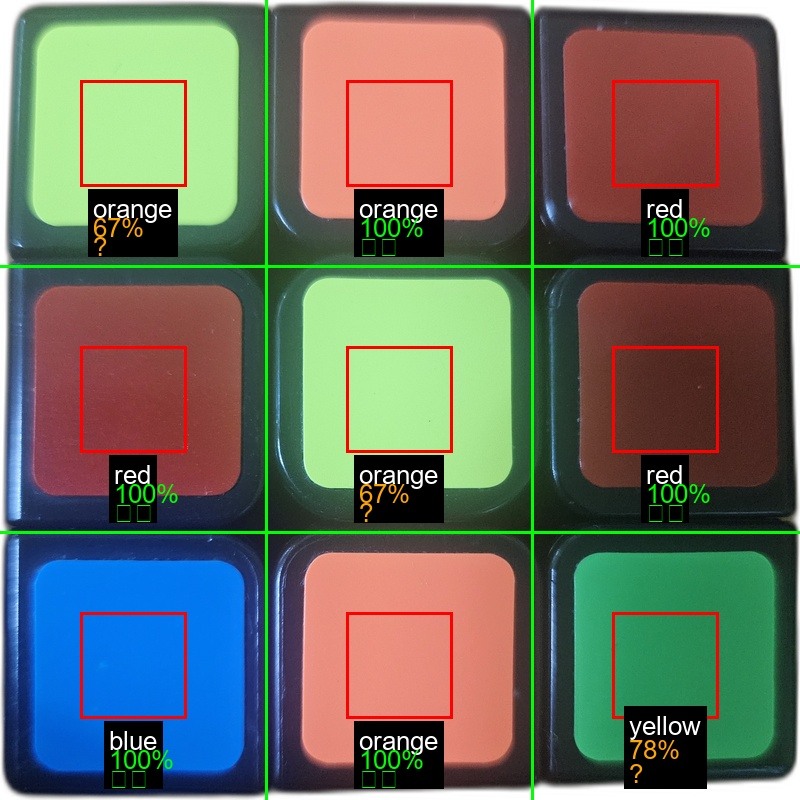
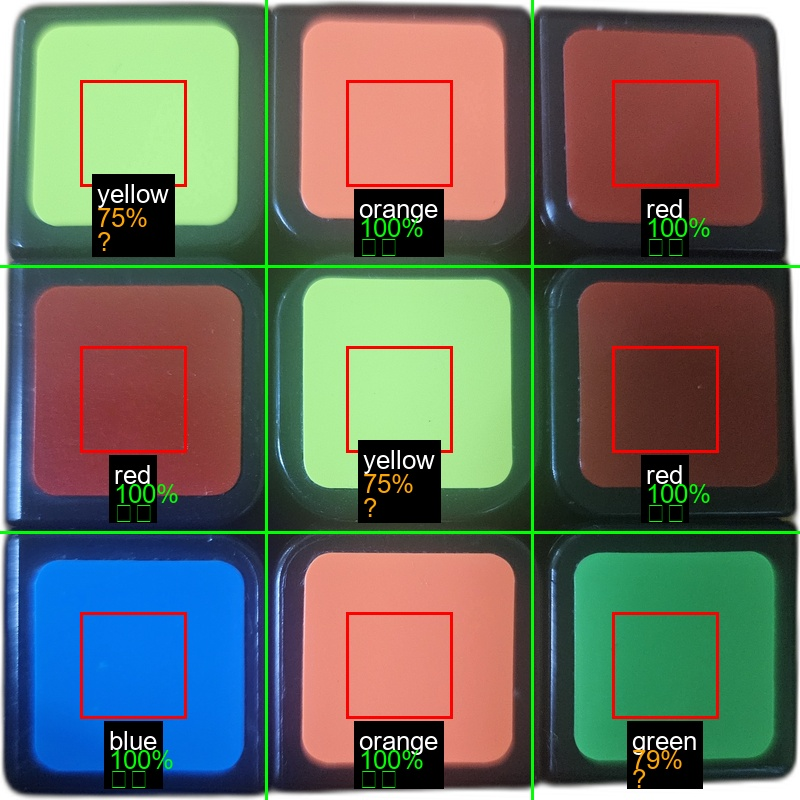
정의는 승리한다. 그건 바로 나!

Changed region(s): [[0.4375, 0.5312, 0.5625, 0.6562], [0.7812, 0.875, 0.9062, 1.0], [0.0938, 0.2188, 0.25, 0.3125]]

diff --git a/remove_bg.py b/remove_bg.py
@@ -9,18 +9,18 @@ from sklearn.cluster import KMeans
 # ============= 기준 색상 정의 =============
 REFERENCE_COLORS_RGB = {
     'white':  np.array([220, 230, 240]),
-    'yellow': np.array([230, 225, 120]),
-    'orange': np.array([240, 130, 105]),
-    'red':    np.array([170, 55, 35]),
-    'green':  np.array([60, 190, 110]),
+    'yellow': np.array([180, 220, 130]),  # 기존 (230,225,120)에서 실제 클러스터(173,226,125)에 가깝게
+    'orange': np.array([200, 100, 80]),   # 더 어두운 주황도 포함 (밝은것~어두운것 중간)
+    'red':    np.array([145, 50, 45]),    # 매우 어두운 빨강에 맞춤
+    'green':  np.array([55, 180, 110]),   # 기존 (60,190,110)에서 약간 조정
     'blue':   np.array([20, 80, 150])
 }
 
 REFERENCE_COLORS_HSV = {
     'white':  np.array([100, 50, 230]),
     'yellow': np.array([73, 180, 180]),   # H 낮춤 (80→73), V 낮춤 (230→180)
-    'orange': np.array([15, 130, 230]),   # H 높임 (7→15), S 낮춤 (165→130)
-    'red':    np.array([2, 170, 148]),    # S 낮춤 (220→170), V 낮춤 (155→148)
+    'orange': np.array([10, 150, 200]),   # H 낮춤 (15→10), S 높임, V 낮춤 (어두운 주황)
+    'red':    np.array([2, 180, 140]),    # S 높임 (170→180), V 낮춤 (148→140)
     'green':  np.array([60, 180, 200]),   # H 낮춤 (65→60)
     'blue':   np.array([106, 215, 145])
 }
@@ -72,7 +72,7 @@ def match_clusters_to_colors(cluster_centers, reference_colors, distance_func):
 def apply_hue_based_rules(cluster_to_color, cluster_centers_hsv):
     """
     Hue + 채도 + 명도 기반 후처리 규칙
-    - orange vs red: 명도(V) + 채도(S)로 구분
+    - orange vs red: Hue 범위 더 넓게 (어두운 주황 포함)
     - yellow vs green: Hue 정밀 조정
     """
     for cluster_id in range(len(cluster_centers_hsv)):
@@ -85,22 +85,21 @@ def apply_hue_based_rules(cluster_to_color, cluster_centers_hsv):
         
         # 2. Hue + V + S로 색상 판별
         
-        # 빨강/주황 구분 (H=0-25)
-        if h < 25:
-            # 빨강 조건 (더 엄격하게)
-            if h <= 6:  # H가 매우 낮으면
-                if v < 170:  # 어두우면 빨강
-                    cluster_to_color[cluster_id] = 'red'
-                elif s > 150:  # 채도 높으면 빨강 가능성
-                    cluster_to_color[cluster_id] = 'red'
-                else:  # 밝고 채도 낮으면 주황
-                    cluster_to_color[cluster_id] = 'orange'
-            else:  # H > 6이면 주황
+        # 빨강/주황 구분 (H=0-30으로 확대)
+        if h < 30:
+            # 주황 범위 확대: H가 5 이상이면 주황으로 우선 고려
+            if h >= 5:
                 cluster_to_color[cluster_id] = 'orange'
+            # H가 매우 낮으면 (0-5) 명도/채도로 판단
+            else:
+                if v < 160 and s > 160:  # 어둡고 채도 높으면 빨강
+                    cluster_to_color[cluster_id] = 'red'
+                else:  # 나머지는 주황
+                    cluster_to_color[cluster_id] = 'orange'
         
         # 초록/노랑 구분 (H=50-100)
         elif 50 <= h < 100:
-            # 노랑: H=68-82 (약간 더 넓게)
+            # 노랑: H=68-82
             if 68 <= h <= 82 and s > 140:
                 cluster_to_color[cluster_id] = 'yellow'
             # 초록: 나머지
@@ -115,8 +114,8 @@ def apply_hue_based_rules(cluster_to_color, cluster_centers_hsv):
         elif h >= 170:
             cluster_to_color[cluster_id] = 'red'
         
-        # 기타 (H=25-50): 주황/노랑 경계
-        elif 25 <= h < 50:
+        # 기타 (H=30-50): 주황/노랑 경계
+        elif 30 <= h < 50:
             if v > 200 and s > 140:  # 밝고 채도 높으면 노랑
                 cluster_to_color[cluster_id] = 'yellow'
             else:  # 그 외 주황
@@ -124,27 +123,60 @@ def apply_hue_based_rules(cluster_to_color, cluster_centers_hsv):
     
     return cluster_to_color
 
-def ensemble_vote(rgb_color, hsv_color, rgb_dist, hsv_dist):
+def ensemble_vote(rgb_color, hsv_color, rgb_dist, hsv_dist, hsv_raw=None):
     """
     2중 투표: RGB와 HSV 결과를 종합
+    RGB를 훨씬 더 신뢰 (조명 변화에 강건)
+    
+    Args:
+        hsv_raw: 개별 칸의 실제 HSV 값 [H, S, V] (재검증용)
     
     Returns:
         (final_color, confidence, reason)
     """
+    # 0. 개별 HSV 재검증 (클러스터링 오류 보정)
+    if hsv_raw is not None:
+        h, s, v = hsv_raw
+        
+        # yellow 보정: H=38-60이고 채도 충분하면 무조건 yellow
+        if 38 <= h <= 60 and s > 120 and v > 150:
+            # RGB도 yellow면 확신
+            if rgb_color == 'yellow':
+                return 'yellow', 1.0, 'both_agree'
+            # RGB가 green이어도 HSV 재검증으로 yellow 확정
+            else:
+                return 'yellow', 0.95, 'hsv_recheck'
+        
+        # orange 보정: H=5-10°이고 밝으면 (V>160) 무조건 orange
+        if 5 <= h <= 10 and v > 160:
+            # RGB도 orange면 확신
+            if rgb_color == 'orange':
+                return 'orange', 1.0, 'both_agree'
+            # RGB가 red여도 HSV 재검증으로 orange 확정
+            else:
+                return 'orange', 0.95, 'hsv_recheck'
+        
+        # red 확정: H<5이고 어두우면 (V<160) 무조건 red
+        if h < 5 and v < 160 and s > 140:
+            if rgb_color == 'red':
+                return 'red', 1.0, 'both_agree'
+            else:
+                return 'red', 0.95, 'hsv_recheck'
+    
     # 1. 두 결과 일치 → 확신도 매우 높음
     if rgb_color == hsv_color:
         return rgb_color, 1.0, 'both_agree'
     
-    # 2. 불일치 → 거리 기반 신뢰도 계산
+    # 2. 불일치 → RGB를 훨씬 더 신뢰
     rgb_confidence = 1.0 / (1.0 + rgb_dist / 50.0)
     hsv_confidence = 1.0 / (1.0 + hsv_dist / 100.0)
     
-    # 3. RGB 가중치를 약간 더 줌 (조명 변화에 더 안정적)
-    rgb_weighted = rgb_confidence * 1.2
+    # 3. RGB 가중치 3배 (조명 변화에 훨씬 안정적)
+    rgb_weighted = rgb_confidence * 3.0
     hsv_weighted = hsv_confidence * 1.0
     
     if rgb_weighted > hsv_weighted:
-        final_confidence = rgb_confidence * 0.85
+        final_confidence = rgb_confidence * 0.90
         return rgb_color, final_confidence, 'rgb_wins'
     else:
         final_confidence = hsv_confidence * 0.85
@@ -474,6 +506,7 @@ def process_cube_dual_clustering(input_folder='cube_img',
     agree_count = 0
     rgb_win_count = 0
     hsv_win_count = 0
+    recheck_count = 0
     
     for img_data in all_images_data:
         filename = img_data['filename']
@@ -494,8 +527,11 @@ def process_cube_dual_clustering(input_folder='cube_img',
                 rgb_dist = rgb_distances[rgb_cluster]
                 hsv_dist = hsv_distances[hsv_cluster]
                 
+                # 개별 칸의 실제 HSV 값 전달 (재검증용)
+                hsv_raw = all_hsv_array[cell_idx]
+                
                 final_color, confidence, reason = ensemble_vote(
-                    rgb_color, hsv_color, rgb_dist, hsv_dist
+                    rgb_color, hsv_color, rgb_dist, hsv_dist, hsv_raw
                 )
                 
                 colors[row].append(final_color)
@@ -504,6 +540,8 @@ def process_cube_dual_clustering(input_folder='cube_img',
                 
                 if reason == 'both_agree':
                     agree_count += 1
+                elif reason == 'hsv_recheck':
+                    recheck_count += 1
                 elif reason == 'rgb_wins':
                     rgb_win_count += 1
                 else:
@@ -516,24 +554,45 @@ def process_cube_dual_clustering(input_folder='cube_img',
         vis_path = os.path.join(output_vis_folder, vis_filename)
         visualize_results(square_array, colors, confidences, reasons, vis_path)
         
-        # 출력
-        print(f"{filename}:")
+        # 출력 (각 칸의 RGB/HSV 값 포함)
+        print(f"\n{filename}:")
+        print("=" * 80)
+        
+        cell_idx_start = cell_idx - 9  # 이 이미지의 첫 칸 인덱스
+        
         for r in range(3):
-            row_str = "  "
             for c in range(3):
-                color = colors[r][c]
+                idx = cell_idx_start + r * 3 + c
+                
+                # RGB 값
+                rgb = all_rgb_array[idx]
+                rgb_cluster = rgb_labels[idx]
+                rgb_color = rgb_cluster_to_color[rgb_cluster]
+                
+                # HSV 값
+                hsv = all_hsv_array[idx]
+                hsv_cluster = hsv_labels[idx]
+                hsv_color = hsv_cluster_to_color[hsv_cluster]
+                
+                # 최종 결과
+                final_color = colors[r][c]
                 conf = confidences[r][c]
                 reason = reasons[r][c]
                 
                 if reason == 'both_agree':
                     symbol = '✓✓'
+                elif reason == 'hsv_recheck':
+                    symbol = '✓+'
                 elif conf >= 0.80:
                     symbol = '✓'
                 else:
                     symbol = '?'
                 
-                row_str += f"{color}({conf:.0%}){symbol} "
-            print(row_str)
+                print(f"[{r},{c}] RGB({rgb[0]:3.0f},{rgb[1]:3.0f},{rgb[2]:3.0f}) "
+                      f"→ C{rgb_cluster}={rgb_color:6s} | "
+                      f"HSV(H={hsv[0]:3.0f}°,S={hsv[1]:3.0f},V={hsv[2]:3.0f}) "
+                      f"→ C{hsv_cluster}={hsv_color:6s} | "
+                      f"최종: {final_color:6s}({conf:.0%}){symbol}")
         print()
         
         results.append({
@@ -548,6 +607,7 @@ def process_cube_dual_clustering(input_folder='cube_img',
     print("-" * 80)
     print(f"총 칸 수: {total_cells}")
     print(f"RGB-HSV 일치: {agree_count} ({agree_count/total_cells*100:.1f}%)")
+    print(f"HSV 재검증: {recheck_count} ({recheck_count/total_cells*100:.1f}%)")
     print(f"RGB 우세: {rgb_win_count} ({rgb_win_count/total_cells*100:.1f}%)")
     print(f"HSV 우세: {hsv_win_count} ({hsv_win_count/total_cells*100:.1f}%)")
     print("=" * 80)
